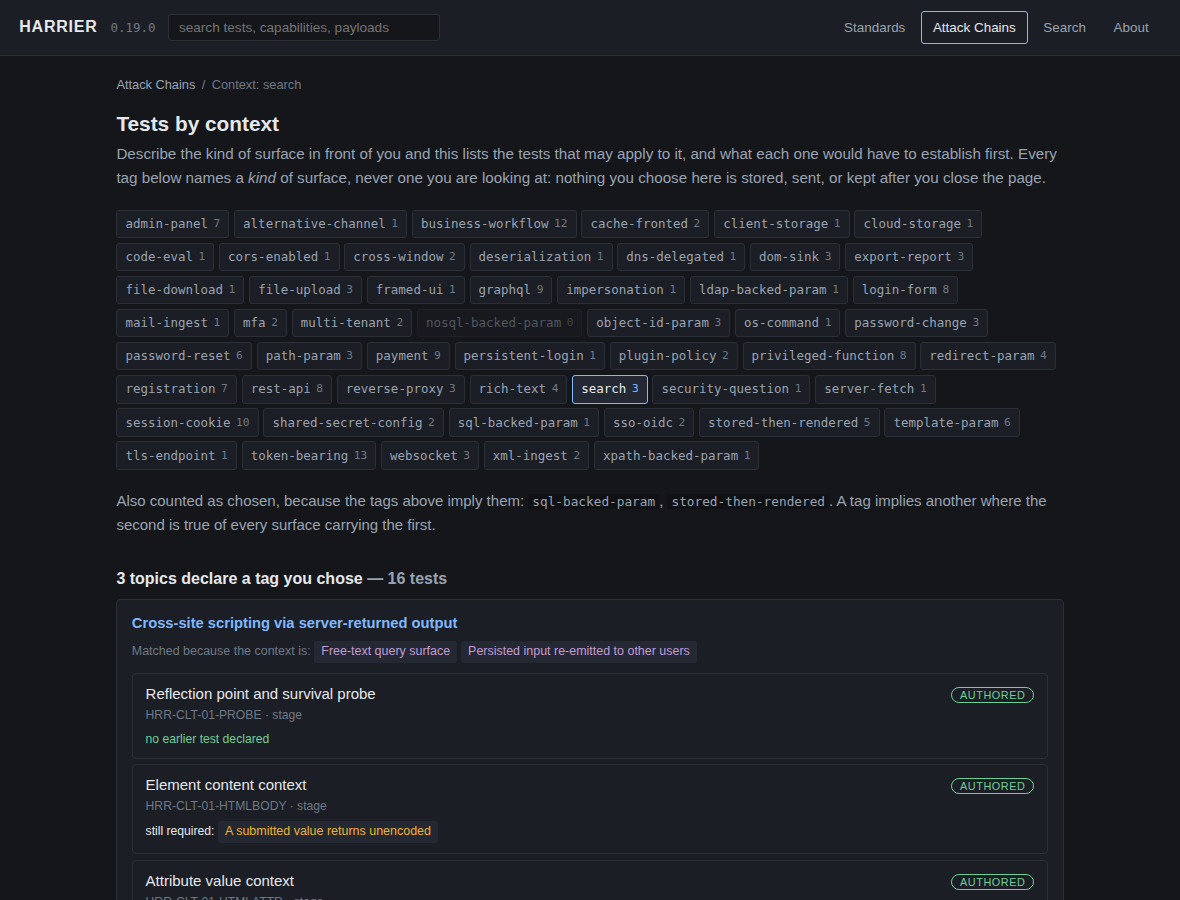
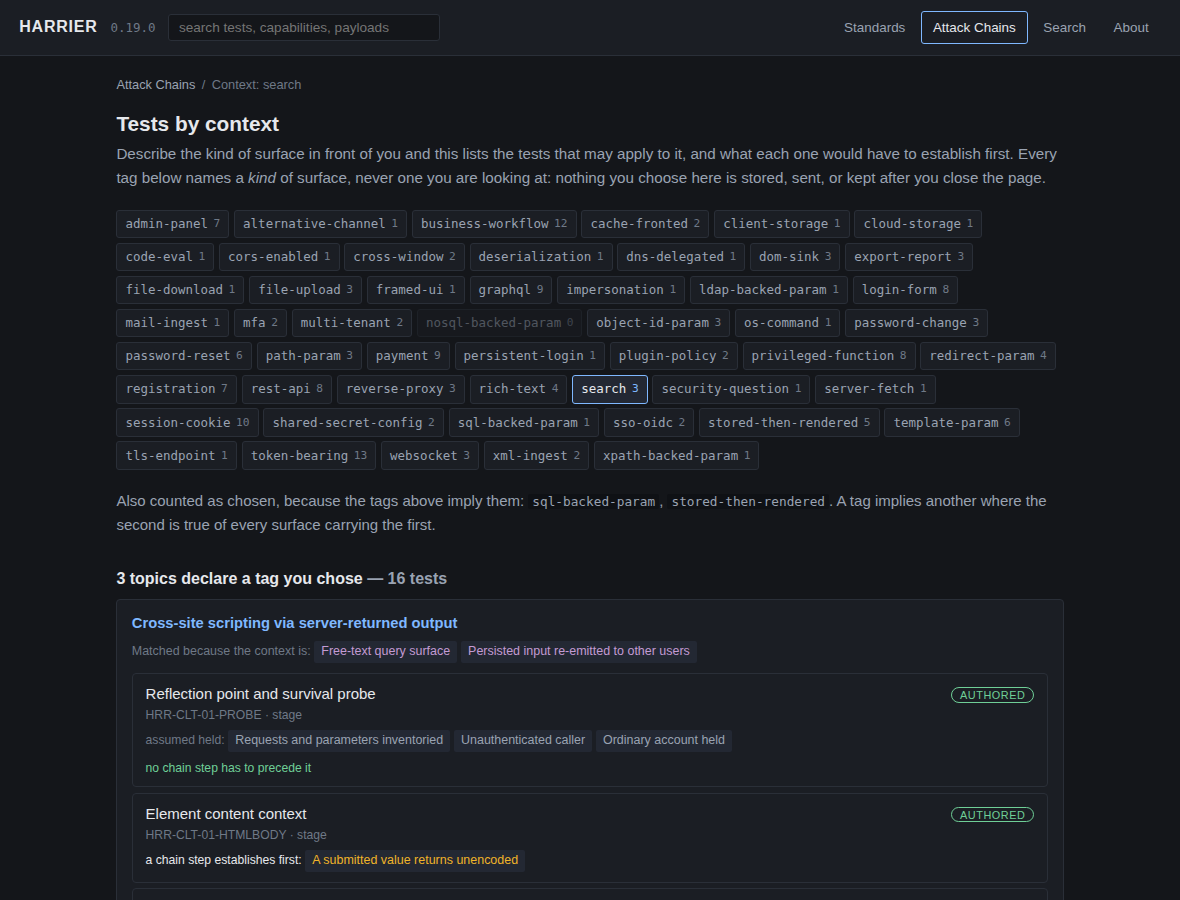
fix: print the engagement conditions instead of reporting them as none
Both halves of the classification were computed and only one was
rendered, so a unit requiring `recon.entrypoints.mapped` was labelled
"no earlier test declared" -- and HRR-RCN-03-MAP establishes exactly
that. The same held for `access.user`, which HRR-IDN-01-POLICY
establishes. The claim was false, and false on the 176 units the view
is most likely to be read for.

Merging the two lists is the other way to be useless: every unit in the
catalogue declares at least one condition and all but eight declare a
chain-tier one, so a single list puts the same warning everywhere and
distinguishes nothing. They are shown as two lines instead:

  assumed held               a general condition of the engagement. A
                             broad test may well establish it, and it
                             says nothing about where to go next.
  a chain step establishes   a capability another test has to produce.
  first                      That is the chain.

The green case is reworded to what is actually true of it -- no chain
step precedes this unit -- rather than to a claim about earlier tests
that no unit in this catalogue satisfies. The closing note explains
both labels, and a test asserts the old sentence is absent by name.

Also syncs the alpha notice at the top of the README, which still said
0.18.0 while the badge above it said 0.19.0. Both are now asserted
against __version__, so they cannot drift apart again.

Changed region(s): [[0.122, 0.8089, 0.6102, 1.0], [0.7932, 0.8711, 0.8847, 0.9333], [0.7932, 0.9644, 0.8847, 0.9956]]

diff --git a/harrier/artefact/app.js b/harrier/artefact/app.js
@@ -707,9 +707,17 @@
                     the test that establishes it, which is the chain the rest of
                     this file is about.
 
-     A unit owing nothing of the second kind is one a tester can start on today.
-     That is the only "can I begin here" claim the data supports, and it is
-     about the catalogue rather than about the target. */
+     Neither list may be dropped when the page renders this. An engagement-tier
+     fact is not a step, and it is also not nothing: `access.user` and
+     `recon.entrypoints.mapped` are each established by a test in this
+     catalogue, so a unit requiring them has a condition a reader has to have
+     met, even though naming it says nothing about where to go next. Showing
+     only the second list reports such a unit as free; showing them merged
+     reports all but eight of the catalogue as blocked. Both are shown, apart.
+
+     A unit owing nothing of the second kind is one no chain step precedes --
+     which is a statement about the catalogue's own filing, and never a claim
+     that a target permits the test. */
   var entryCost = function (D, unitId) {
     var unit = get(D.units, unitId) || {};
     var requires = unit.requires || {};
@@ -1719,10 +1727,25 @@
       var unit = get(D.units, uid);
       if (!unit) return "";
       var cost = entryCost(D, uid);
-      var note = cost.entry
-        ? '<span class="need ok">no earlier test declared</span>'
-        : '<span class="need">still required: ' +
-          cost.earned.map(function (f) { return capLabel(f, "req"); }).join("") + "</span>";
+      /* Both lists are shown. Printing only the second said "no earlier test
+         declared" over a unit that requires `recon.entrypoints.mapped`, which
+         one test in the catalogue establishes -- a claim that is simply false,
+         and false on the 176 units the view is most likely to be read for.
+         Kept as two lines rather than merged into one, because merging them is
+         the other way to be useless: nearly every unit in the catalogue
+         declares an engagement condition, so one combined list puts the same
+         warning on all but eight of them and stops distinguishing anything. */
+      var note = cost.engagement.length
+        ? '<span class="need assumed">assumed held: ' +
+          cost.engagement.map(function (f) { return capLabel(f, "eng"); }).join("") +
+          "</span>"
+        : "";
+      note += cost.earned.length
+        ? '<span class="need">a chain step establishes first: ' +
+          cost.earned.map(function (f) { return capLabel(f, "req"); }).join("") + "</span>"
+        : cost.engagement.length
+          ? '<span class="need ok">no chain step has to precede it</span>'
+          : '<span class="need ok">declares no prerequisite</span>';
       /* The requirement line sits in the left column with the title, not in
          the right one with the depth pill. The right column is a short status
          and does not wrap; a capability label put there overflows the row and
@@ -1829,9 +1852,13 @@
     body += '<h3>What this list is not</h3>' +
       '<p class="muted">A tag is carried by the topic, not by the individual test, so ' +
       "every test in a matched topic is listed even where the topic spans contexts a " +
-      "single tag cannot separate. <b>Still required</b> is read from the capability " +
-      "vocabulary and says a test in the catalogue has to establish that first; it is " +
-      "never a claim that you do or do not have it. Outcomes — what a chain is for — " +
+      "single tag cannot separate. The two conditions under a test are read from the " +
+      "capability vocabulary and are different things. <b>Assumed held</b> is a " +
+      "general condition of the engagement — a session, a map of the entrypoints — " +
+      "which a broad test may well establish, and which tells you nothing about " +
+      "where to go next; <b>a chain step establishes first</b> is a capability " +
+      "another test has to produce, and that is the chain. Neither is ever a claim " +
+      "that you do or do not have it. Outcomes — what a chain is for — " +
       "carry no surface tag and are reached through the chain from a test here, not " +
       "from this page.</p>";
 

diff --git a/harrier/artefact/app.css b/harrier/artefact/app.css
@@ -323,8 +323,11 @@ a.chip:hover { border-color: var(--accent); color: var(--ink); text-decoration: 
 .why { color: var(--faint); font-size: .78rem; margin: .1rem 0 .5rem; }
 
 /* Read from the capability vocabulary, and about the catalogue rather than
-   about a target: green says no test has to come first, amber names the ones
-   that do. */
+   about a target. Three states, and the muted one is not decoration: an
+   engagement condition is neither a chain step nor nothing, and it is shown in
+   its own line so it cannot be read as either. */
 .row .who .need { display: block; margin-top: .3rem; font-size: .76rem; }
 .row .who .need .tag { margin: 0 .22rem .12rem 0; }
 .need.ok { color: var(--good); }
+.need.assumed { color: var(--faint); }
+.tag.eng { color: var(--dim); }

diff --git a/tests/test_artefact_ui.py b/tests/test_artefact_ui.py
@@ -961,6 +961,43 @@ class ChoosingAContextSelectsTestsAndNothingElse(unittest.TestCase):
         self.assertEqual(out["entry"], 176)
         self.assertEqual(out["total"], 374)
 
+    def test_an_engagement_condition_is_not_the_same_as_no_condition(self):
+        """An engagement-tier fact is not a chain step and is also not nothing.
+
+        `access.user` and `recon.entrypoints.mapped` are each established by a
+        test in this catalogue. A unit requiring one has a condition its reader
+        has to have met, so the classification may separate it from a chain step
+        but must not lose it -- and the page has to print both lists.
+        """
+        out = self.run_js("""
+            const out = {};
+            ["HRR-INJ-10-PROBE", "HRR-ACL-02-PEER"].forEach(function (id) {
+              const c = H.entryCost(D, id);
+              out[id] = { engagement: c.engagement, earned: c.earned, entry: c.entry };
+            });
+            return out;
+        """)
+        probe = out["HRR-INJ-10-PROBE"]
+        self.assertIn("recon.entrypoints.mapped", probe["engagement"])
+        # Producers exist for it, which is exactly why the old label was wrong.
+        self.assertTrue(self.data["producers"]["recon.entrypoints.mapped"])
+        self.assertTrue(probe["entry"], "no chain step precedes it")
+        self.assertNotEqual(probe["engagement"], [], "and it is not free of conditions")
+
+    def test_every_unit_the_view_can_show_carries_at_least_one_named_condition(self):
+        """Nothing in the catalogue declares an empty `requires`, so a rendered
+        unit that named no condition at all would mean the classification had
+        dropped one rather than that there was none to name."""
+        out = self.run_js("""
+            const bare = [];
+            Object.keys(D.units).forEach(function (id) {
+              const c = H.entryCost(D, id);
+              if (!c.engagement.length && !c.earned.length) bare.push(id);
+            });
+            return bare;
+        """)
+        self.assertEqual(out, [])
+
     def test_a_tag_cannot_carry_a_character_that_would_leave_an_attribute(self):
         """The selector builds an href by concatenating tags. The schema
         constrains a tag to `[a-z0-9-]` and the validator refuses anything else,
@@ -1604,8 +1641,33 @@ class TheBuiltFileWorksInABrowser(unittest.TestCase):
     def test_a_test_that_needs_no_predecessor_is_told_apart_from_one_that_does(self):
         text = self.text("#/chains/context/sql-backed-param")
         self.assertShows(text, "Injection point probe")
-        self.assertShows(text, "no earlier test declared")
-        self.assertShows(text, "still required")
+        self.assertShows(text, "no chain step has to precede it")
+        self.assertShows(text, "a chain step establishes first")
+
+    def test_an_engagement_condition_is_printed_rather_than_dropped(self):
+        """The whole reason both lists are computed. Printing only the second
+        put "nothing precedes this" over units requiring a capability a test in
+        the catalogue establishes -- false, and false on the units the view is
+        most likely to be read for."""
+        page = self.open("#/chains/context/sql-backed-param")
+        text = self.driver.text()
+        self.assertShows(text, "assumed held")
+        self.assertShows(text, "Unauthenticated caller")
+        # Its own line, so it cannot be read as either of the other two states.
+        self.assertTrue(self.driver.count(".need.assumed") > 0)
+        row = page.inner_text('a.row[href="#/unit/HRR-INJ-01-PROBE"]')
+        self.assertIn("assumed held", row)
+        self.assertIn("no chain step has to precede it", row)
+
+    def test_the_page_never_claims_a_unit_declares_no_earlier_test(self):
+        """The wording that was wrong, asserted absent by name. Every unit in
+        the catalogue declares at least one condition, so this sentence could
+        never have been true of any of them."""
+        for fragment in ("#/chains/context/sql-backed-param",
+                         "#/chains/context/search",
+                         "#/chains/context/object-id-param"):
+            with self.subTest(fragment=fragment):
+                self.assertNotIn("no earlier test declared", self.text(fragment))
 
     def test_the_universal_topics_are_folded_rather_than_repeated(self):
         page = self.open("#/chains/context/search")
@@ -1639,7 +1701,9 @@ class TheBuiltFileWorksInABrowser(unittest.TestCase):
                       "unlocked", "available on your target", "you have"):
             self.assertNotIn(claim, text, claim)
         self.assertIn("may apply", text)
-        self.assertIn("never a claim", text)
+        # The page has to say what it is not, not merely avoid saying what it is.
+        self.assertIn("ever a claim that you do or do not have it", text)
+        self.assertIn("not of an application", self.text("#/chains/context").lower())
 
     def test_choosing_a_context_writes_nothing_into_the_browser(self):
         """The selection is a URL and nothing else. Asserted after driving the

diff --git a/tests/test_build.py b/tests/test_build.py
@@ -726,6 +726,32 @@ class TheFamilyViewSummarisesTheWholeGraph(unittest.TestCase):
         )
 
 
+class TheReadmeNamesTheVersionItDescribes(unittest.TestCase):
+    """The badge and the notice above it are two places one number is written.
+
+    They went out of step the moment only one of them was bumped, and a reader
+    at the top of the file then sees two different current versions. Asserted
+    rather than remembered, for the reason every other figure in that document
+    is.
+    """
+
+    @classmethod
+    def setUpClass(cls):
+        cls.readme = (REPO_ROOT / "README.md").read_text(encoding="utf-8")
+
+    def test_the_badge_names_the_package_version(self):
+        self.assertIn(f"badge/version-{__version__}-blue", self.readme)
+
+    def test_the_alpha_notice_names_the_package_version(self):
+        self.assertIn(f"**Harrier {__version__} is an early public alpha.**", self.readme)
+
+    def test_no_earlier_version_is_left_describing_this_checkout(self):
+        """Historical mentions are fine and the roadmap is full of them. What
+        must not survive is another version presented as the current one."""
+        stale = re.findall(r"Harrier (\d+\.\d+\.\d+) is an early public alpha", self.readme)
+        self.assertEqual(stale, [__version__])
+
+
 class TheSurfaceIndexIsDerivedRatherThanWalkedInTheBrowser(unittest.TestCase):
     """The context selector's join key, closed here so the suite can hold it.
 

diff --git a/README.md b/README.md
@@ -7,7 +7,7 @@ An offline execution companion for web application security testing standards.
 It breaks broad standard test cases into atomic, separately addressable **Test
 Units**, and derives the attack-chain continuations each success may open.
 
-> **Harrier 0.18.0 is an early public alpha.** The WSTG decomposition is broad —
+> **Harrier 0.19.0 is an early public alpha.** The WSTG decomposition is broad —
 > every resolvable identifier is claimed, and 374 Test Units exist. The depth
 > behind them is not: 36 units are written to full procedural depth and 40 are
 > sketched, and what a defeated control permits is largely unwritten. [What that
